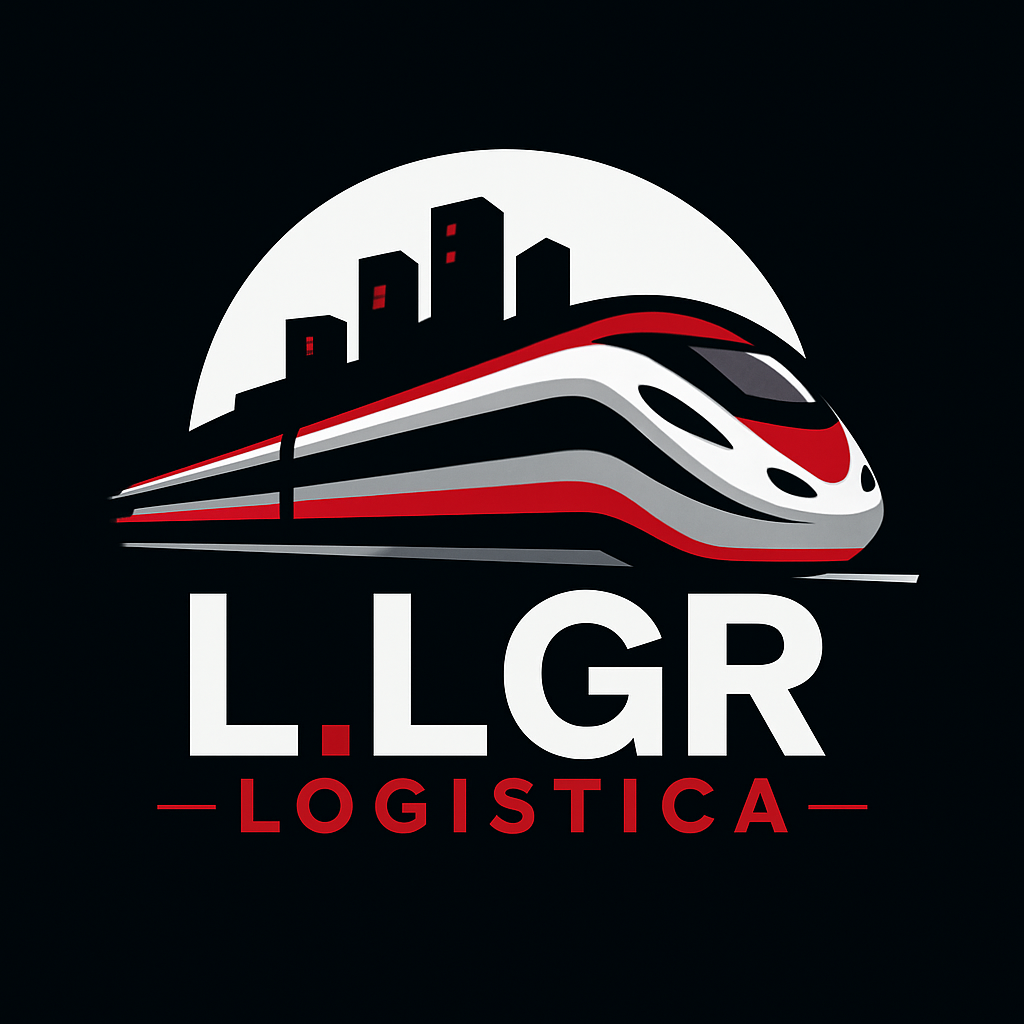
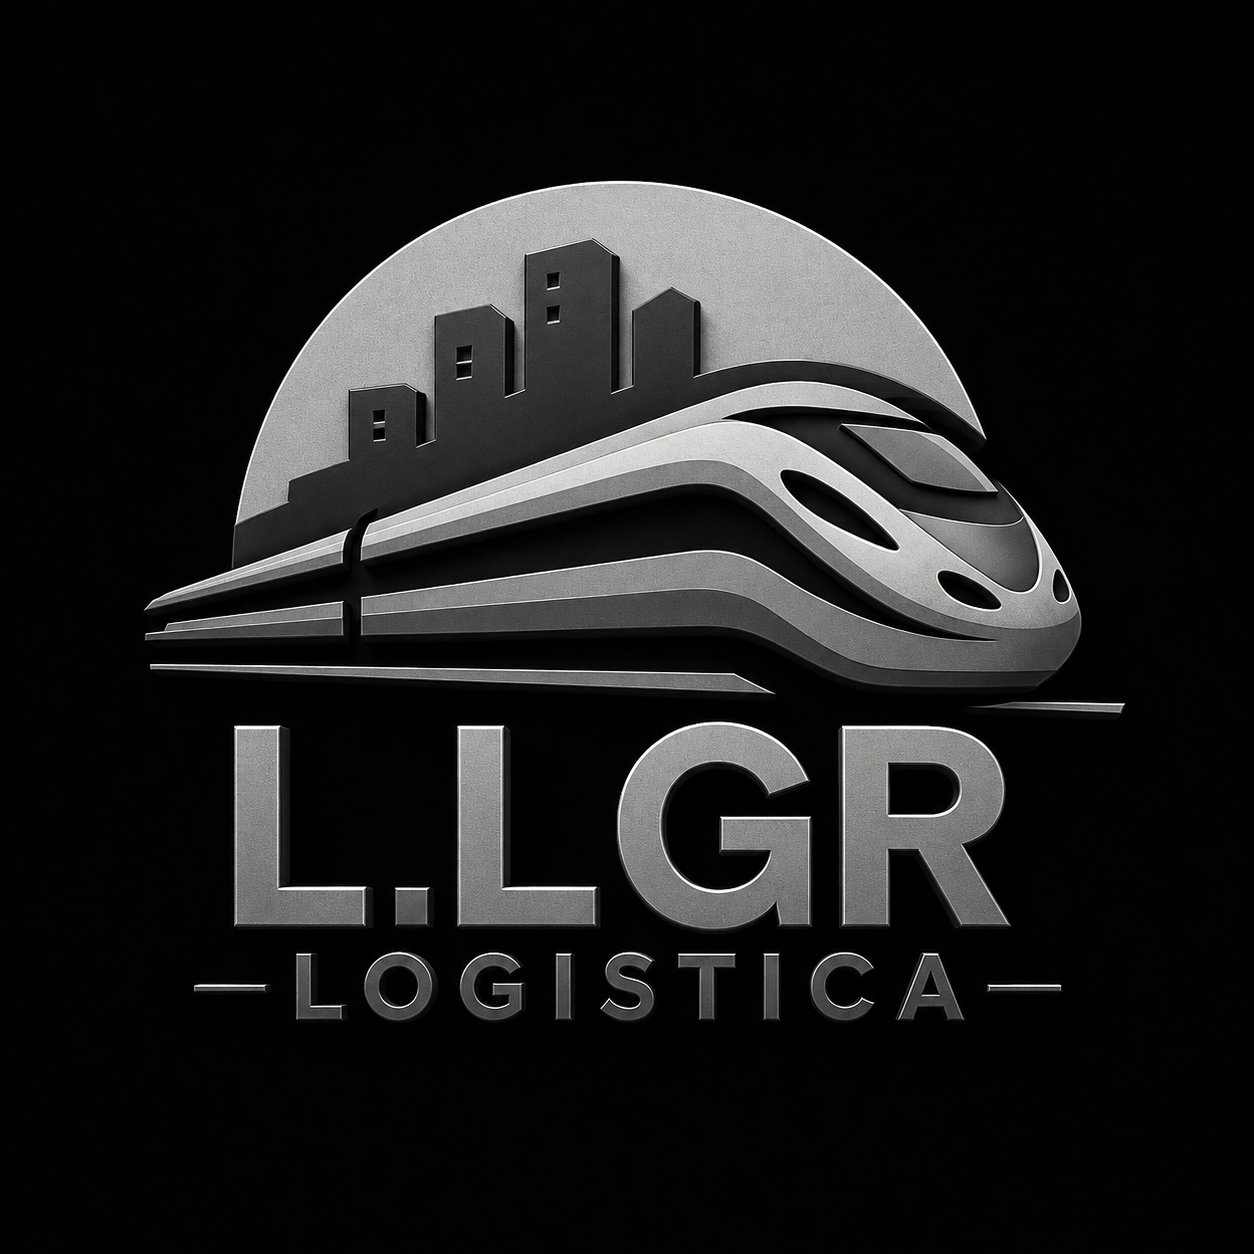
feat: adiciona imagens dos projetos Ferroviária, Turnover e PriceWatch

Changed region(s): [[0.125, 0.125, 0.9062, 0.8125]]

diff --git a/index.html b/index.html
@@ -335,6 +335,36 @@
           </div>
         </div>
 
+        <div class="projeto-card revela atraso-3" data-linguagens="java">
+          <div class="projeto-card__imagem">
+            <img
+              src="public/assets/images/projects/pricewatch.png"
+              alt="PriceWatch"
+              onerror="this.style.display='none'; this.parentElement.classList.add('projeto-card__imagem--vazia')"
+            />
+          </div>
+          <div class="projeto-card__conteudo">
+            <div class="projeto-card__topo">
+              <span class="projeto-card__tag">Java · Spring Boot · Next.js</span>
+              <span class="projeto-card__status projeto-card__status--concluido">Concluído</span>
+            </div>
+            <h3 class="projeto-card__titulo">PriceWatch</h3>
+            <p class="projeto-card__descricao">
+              Monitor de preços com notificação automática via WhatsApp.
+              O usuário cadastra produtos, define um preço-alvo e recebe uma mensagem no celular quando o preço atingir o valor desejado.
+              Job agendado consulta preços a cada 30 minutos.
+            </p>
+            <div class="projeto-card__tecnologias">
+              <span>Java</span><span>Spring Boot</span><span>PostgreSQL</span><span>Flyway</span><span>Next.js</span>
+            </div>
+            <div class="projeto-card__links">
+              <a href="https://github.com/lucaspwalter/pricewatch" target="_blank" class="botao botao--pequeno">
+                GitHub
+              </a>
+            </div>
+          </div>
+        </div>
+
         <div class="projeto-card projeto-card--futuro revela atraso-3" data-linguagens="php">
           <div class="projeto-card__imagem projeto-card__imagem--vazia"></div>
           <div class="projeto-card__conteudo">
@@ -385,24 +415,6 @@
             </p>
             <div class="projeto-card__tecnologias">
               <span>PHP</span><span>SQL</span>
-            </div>
-          </div>
-        </div>
-
-        <div class="projeto-card projeto-card--futuro revela atraso-3" data-linguagens="java">
-          <div class="projeto-card__imagem projeto-card__imagem--vazia"></div>
-          <div class="projeto-card__conteudo">
-            <div class="projeto-card__topo">
-              <span class="projeto-card__tag">Java · API REST</span>
-              <span class="projeto-card__status projeto-card__status--futuro">Em Breve</span>
-            </div>
-            <h3 class="projeto-card__titulo">Projeto Futuro Java 1</h3>
-            <p class="projeto-card__descricao">
-              Espaço reservado para projeto em desenvolvimento.
-              Em breve com detalhes, tecnologias e link para o repositório.
-            </p>
-            <div class="projeto-card__tecnologias">
-              <span>Java</span><span>REST</span><span>SQL</span>
             </div>
           </div>
         </div>